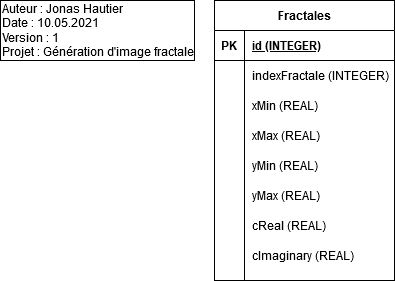
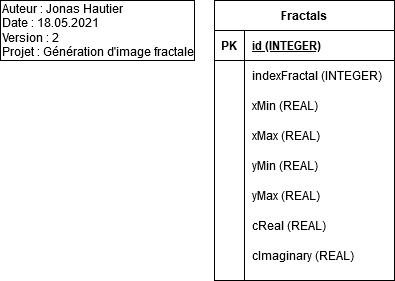
Historique fonctionnel et révision du MLD
La fonction pour générer une fractale depuis l'historique est codée et fonctionnelle mais génère des erreurs suite à un problème de référence. A corriger.

diff --git a/Code/GenerationImageFractale/Main.cs b/Code/GenerationImageFractale/Main.cs
@@ -28,13 +28,14 @@ namespace GenerationImageFractale
 
             //creates database if it doesn't exist
             DatabaseConnector.OpenDatabase();
+
+            //reloads history
+            LoadHistory();
         }
 
         /// <summary>
         /// Prints a fractal according to the user's configuration
         /// </summary>
-        /// <param name="sender"></param>
-        /// <param name="e"></param>
         private void PrintFractal(object sender, EventArgs e)
         {
             //create and start chronometer
@@ -80,25 +81,29 @@ namespace GenerationImageFractale
 
             //resets the cursor
             Cursor.Current = Cursors.Default;
+
+            //reloads history
+            LoadHistory();
         }
 
         /// <summary>
         /// Save the fractal to a png
         /// </summary>
-        private void SaveFractal(object sender, EventArgs e)
+        private void ExportFractalToPng(object sender, EventArgs e)
         {
             //filename default format : "Year-Month-Day HourhMinute"
-            string filename = DateTime.Now.Year + "-" + DateTime.Now.Month + "-" + DateTime.Now.Day + " "
-                + DateTime.Now.Hour + "h" + DateTime.Now.Minute;
+            string filename = DateTime.Now.Year + "-" + DateTime.Now.Month + "-" + DateTime.Now.Day + " " + DateTime.Now.Hour + "h" + DateTime.Now.Minute;
 
             //save bitmap with save file dialog
             Image bitmap = picCanvas.Image;
-            SaveFileDialog dialog = new SaveFileDialog();
-            dialog.Filter = "Images|*.png";
-            dialog.FileName = filename;
+            SaveFileDialog dialog = new SaveFileDialog
+            {
+                Filter = "Images|*.png",
+                FileName = filename
+            };
 
             //make sure that a bitmap has been generated
-            if(bitmap != null)
+            if (bitmap != null)
             {
                 //open the dialog and save if the user confirms
                 if (dialog.ShowDialog() == DialogResult.OK)
@@ -106,6 +111,62 @@ namespace GenerationImageFractale
                     bitmap.Save(dialog.FileName, ImageFormat.Png);
                 }
             }
+        }
+
+        /// <summary>
+        /// Loads the history
+        /// </summary>
+        private void LoadHistory()
+        {
+            toolStrHistorique.DropDownItems.Clear();
+            toolStrHistorique.DropDownItems.AddRange(QueryBuilder.GetHistory());
+        }
+
+        /// <summary>
+        /// Generate a fractal from history
+        /// </summary>
+        public void PrintFractalFromHistory(object sender, EventArgs e)
+        {
+            //create and start chronometer
+            var chrono = new System.Diagnostics.Stopwatch();
+            chrono.Start();
+
+            //stores the values in the tag
+            ToolStripMenuItem item = sender as ToolStripMenuItem;
+            List<string> fractalParams = item.Tag as List<string>;
+
+            try
+            {
+                //set the cursor as the loading cursor
+                Cursor.Current = Cursors.WaitCursor;
+
+                //create and render fractal
+                FractalManager fractal = new FractalManager(fractalParams[1], fractalParams[2], fractalParams[3], fractalParams[4], fractalParams[5], fractalParams[6], int.Parse(fractalParams[0]));
+                picCanvas.Image = fractal.GenerateFractal();
+
+                //end chronometer
+                chrono.Stop();
+                string chronoString = (chrono.ElapsedMilliseconds / 1000).ToString() + "." + (chrono.ElapsedMilliseconds % 1000).ToString() + " seconde(s)";
+                txtGenerationTime.Text = chronoString;
+            }
+            catch (Exception exception)
+            {
+                //render an empty bitmap
+                picCanvas.Image = null;
+
+                //end chronometer
+                chrono.Stop();
+                txtGenerationTime.Text = "";
+
+                //print error
+                MessageBox.Show(exception.Message);
+            }
+
+            //resets the cursor
+            Cursor.Current = Cursors.Default;
+
+            //reloads history
+            LoadHistory();
         }
     }
 }

diff --git a/Code/GenerationImageFractale/QueryBuilder.cs b/Code/GenerationImageFractale/QueryBuilder.cs
@@ -1,0 +1,81 @@
+using System;
+using System.Collections.Generic;
+using System.Linq;
+using System.Text;
+using System.Threading.Tasks;
+using System.Windows.Forms;
+
+namespace GenerationImageFractale
+{
+    public class QueryBuilder
+    {
+        /// <summary>
+        /// Gets the history
+        /// </summary>
+        /// <returns>an array of fractals</returns>
+        public static ToolStripItem[] GetHistory()
+        {
+            //prepare the list of ToolStripItems
+            string query = @"SELECT [indexFractal], [xMin], [xMax], [yMin], [yMax], [cReal], [cImaginary] FROM [Fractals] ORDER BY [id] DESC LIMIT 10";
+            List<List<string>> fractals = QueryExecutor.Select(query);
+            ToolStripItem[] history = new ToolStripItem[fractals.Count()];
+            string entry;
+
+            //feed them with the data
+            for (int i = 0; i < fractals.Count(); i++)
+            {
+                //prepare the text
+                if (fractals[i][0] == "0") //mandelbrot
+                {
+                    entry = "Type: Mandelbrot\r";
+                    entry += "x: " + fractals[i][1] + " à " + fractals[i][2] + "\r";
+                    entry += "y: " + fractals[i][3] + " à " + fractals[i][4];
+                }
+                else //julia
+                {
+                    entry = "Type: Julia\r";
+                    entry += "x: " + fractals[i][1] + " à " + fractals[i][2] + "\r";
+                    entry += "y: " + fractals[i][3] + " à " + fractals[i][4] + "\r";
+                    entry += "c: " + fractals[i][5] + " + " + fractals[i][6] + "i";
+                }
+
+                //create and fill the ToolStripMenuItem
+                history[i] = new ToolStripMenuItem
+                {
+                    Text = entry,
+                    Tag = fractals[i]
+                };
+                //history[i].Click += new EventHandler(Main.PrintFractalFromHistory);
+            }
+
+            return history;
+        }
+
+        /// <summary>
+        /// Saves a fractal in history
+        /// </summary>
+        /// <param name="indexFractal">the index of the selected fractal</param>
+        /// <param name="xMin">x min</param>
+        /// <param name="xMax">x max</param>
+        /// <param name="yMin">y min</param>
+        /// <param name="yMax">y max</param>
+        /// <param name="cReal">c real, can be omitted</param>
+        /// <param name="cImaginary">c imaginary, can be omitted</param>
+        public static void SaveFractal(int indexFractal, double xMin, double xMax, double yMin, double yMax, double cReal = 0, double cImaginary = 0)
+        {
+            string query;
+
+            switch (indexFractal)
+            {
+                case 0: //Mandelbrot
+                case 1: //Julia
+                    query = "INSERT INTO Fractals(indexFractal, xMin, xMax, yMin, yMax, cReal, cImaginary) values (\'" + indexFractal + "\', \'" + xMin + "\', \'" + xMax + "\', \'" + yMin + "\', \'" + yMax + "\', \'" + cReal + "\', \'" + cImaginary + "\')";
+                    break;
+                default:
+                    throw new InvalidFractalException();
+            }
+            
+            QueryExecutor.Insert(query);
+        }
+    }
+}

diff --git a/Code/GenerationImageFractale/QueryExecutor.cs b/Code/GenerationImageFractale/QueryExecutor.cs
@@ -13,11 +13,12 @@ namespace GenerationImageFractale
         /// </summary>
         /// <param name="query">select query</param>
         /// <returns>query result</returns>
-        internal static List<string> Select(string query)
+        internal static List<List<string>> Select(string query)
         {
             SQLiteCommand command = DatabaseConnector.OpenDatabase();
-            List<string> result = new List<string>();
-            DataTable dt = new DataTable();
+            List<List<string>> result = new List<List<string>>();
+            List<string> fractal = new List<string>();
+            //DataTable dt = new DataTable();
             command.CommandText = query;
             command.CommandType = CommandType.Text;
             SQLiteDataReader reader = command.ExecuteReader();
@@ -26,11 +27,22 @@ namespace GenerationImageFractale
             {
                 try
                 {
-                    result.Add(reader.GetString(0));
+                    //create the fractal
+                    fractal.Clear();
+                    fractal.Add(reader.GetInt32(0).ToString());
+                    fractal.Add(reader.GetDouble(1).ToString());
+                    fractal.Add(reader.GetDouble(2).ToString());
+                    fractal.Add(reader.GetDouble(3).ToString());
+                    fractal.Add(reader.GetDouble(4).ToString());
+                    fractal.Add(reader.GetDouble(5).ToString());
+                    fractal.Add(reader.GetDouble(6).ToString());
+
+                    //add it to result
+                    result.Add(new List<string>(fractal));
                 }
                 catch
                 {
-                    result.Add(reader.GetInt32(0).ToString());
+                    continue;
                 }
 
             }

diff --git a/Code/GenerationImageFractale/DatabaseConnector.cs b/Code/GenerationImageFractale/DatabaseConnector.cs
@@ -45,7 +45,6 @@ namespace GenerationImageFractale
         public static void CloseDatabase()
         {
             System.Data.SQLite.SQLiteConnection conn = new System.Data.SQLite.SQLiteConnection("data source=GenerationImageFractale.db3");
-            //System.Data.SQLite.SQLiteCommand cmd = new System.Data.SQLite.SQLiteCommand(conn); //check if i can remove this
             conn.Close();
         }
 
@@ -66,15 +65,15 @@ namespace GenerationImageFractale
 
             string createTableQuery = @"
                 BEGIN TRANSACTION;
-                CREATE TABLE 'Fractale' (
+                CREATE TABLE 'Fractals' (
 	                'id'	INTEGER NOT NULL UNIQUE,
-	                'indexFractale'	INTEGER NOT NULL,
+	                'indexFractal'	INTEGER NOT NULL,
 	                'xMin'	REAL NOT NULL,
 	                'xMax'	REAL NOT NULL,
 	                'yMin'	REAL NOT NULL,
 	                'yMax'	REAL NOT NULL,
-	                'cReel'	REAL,
-	                'cImaginaire'	REAL,
+	                'cReal'	REAL,
+	                'cImaginary'	REAL,
 	                PRIMARY KEY('id' AUTOINCREMENT)
                 );
                 COMMIT;";

diff --git a/Code/GenerationImageFractale/FractalManager.cs b/Code/GenerationImageFractale/FractalManager.cs
@@ -67,8 +67,14 @@ namespace GenerationImageFractale
             //render the selected fractal
             if (SelectedFractal == 0)
             {
+                //create and tries to render the fractal
                 Fractal fractal = new Mandelbrot(xMin, xMax, yMin, yMax);
-                return fractal.Render();
+                Bitmap bitmap = fractal.Render();
+
+                //adds the fractal to the history
+                QueryBuilder.SaveFractal(selectedFractal, xMin, xMax, yMin, yMax);
+
+                return bitmap;
             }
             /*
             else if (SelectedFractal == 1)
@@ -82,11 +88,6 @@ namespace GenerationImageFractale
             {
                 throw new InvalidFractalException();
             }
-        }
-
-        public void SaveFractal()
-        {
-
         }
     }
 }

diff --git a/Code/GenerationImageFractale/Main.Designer.cs b/Code/GenerationImageFractale/Main.Designer.cs
@@ -77,7 +77,7 @@
             this.picCanvas.Size = new System.Drawing.Size(500, 500);
             this.picCanvas.TabIndex = 1;
             this.picCanvas.TabStop = false;
-            this.picCanvas.Click += new System.EventHandler(this.SaveFractal);
+            this.picCanvas.Click += new System.EventHandler(this.ExportFractalToPng);
             // 
             // lblXMin
             // 
